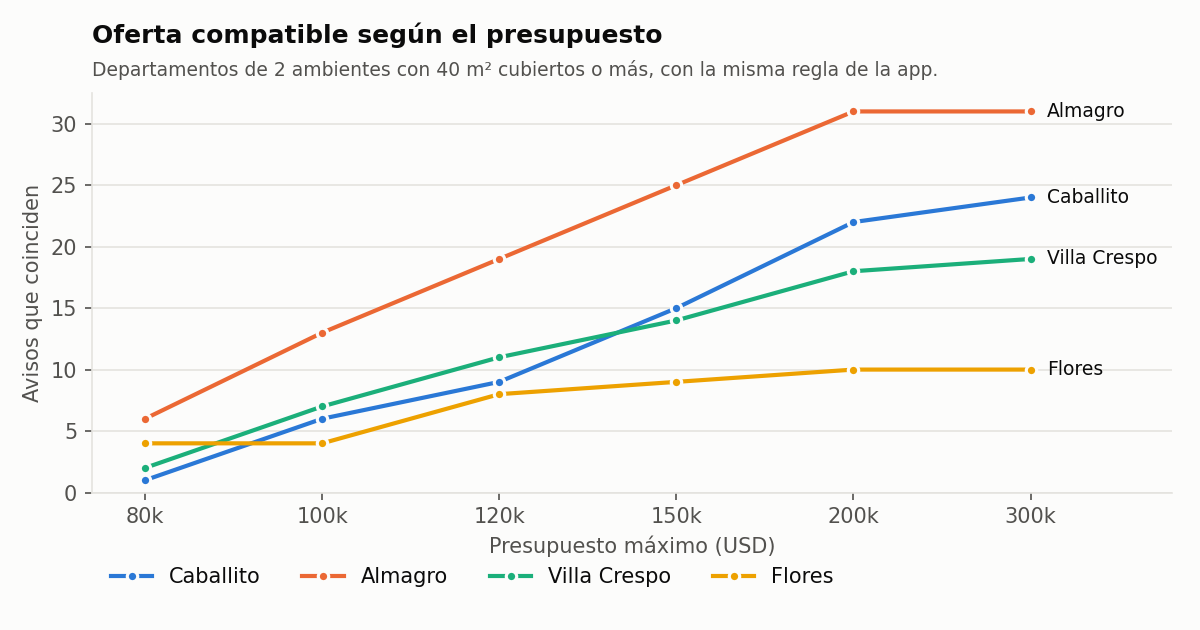
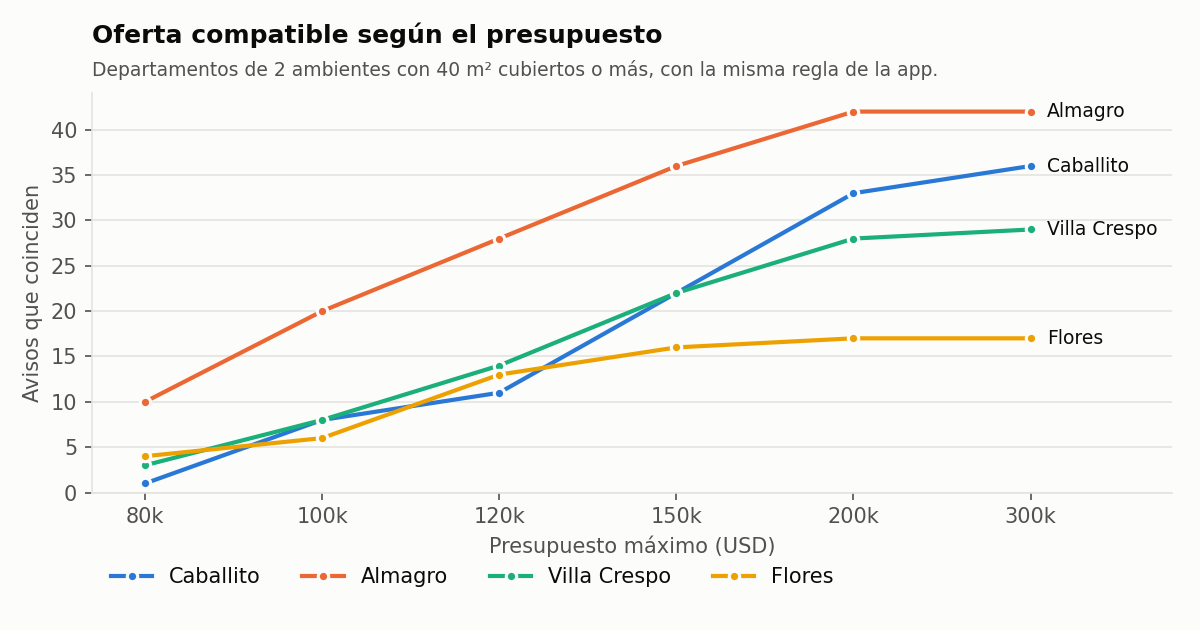
Modelo e informe de avisos con la base ampliada de Zonaprop
- Nuevo comando consolidar para unir capturas de un mismo catálogo.
- El modelo agrupa los posibles duplicados entre fuentes en la partición
  y en la validación cruzada, para evitar fugas entre entrenamiento y prueba.
- Resultados con 3.806 avisos: los delitos registrados siguen sin aportar;
  la ubicación respecto de servicios sí mejora la predicción.
- Informe exploratorio y figuras regenerados con la base ampliada.

diff --git a/precio_entorno/consolidar.py b/precio_entorno/consolidar.py
@@ -1,0 +1,84 @@
+"""Une varias capturas de un mismo catálogo en una sola carpeta para el análisis.
+
+Cada carpeta de entrada tiene un `avisos.json` y, si existe, un `registro.json`. La
+salida tiene los avisos sin IDs repetidos (se conserva la primera aparición), un
+registro con los sitios de cada captura y los posibles duplicados entre fuentes:
+la misma propiedad publicada por una inmobiliaria y por un portal.
+"""
+
+import argparse
+import json
+from pathlib import Path
+
+from precio_entorno.inmobiliarias import possible_duplicates
+
+
+def site_entries(log):
+    """Sitios de un registro. Las capturas de Apify se resumen por corridas."""
+    if 'sitios' in log:
+        return log['sitios']
+    if 'corridas' in log:
+        omitted = {}
+        for run in log['corridas']:
+            for reason, count in (run.get('omitidos') or {}).items():
+                omitted[reason] = omitted.get(reason, 0) + count
+        return {'zonaprop': {'estado': 'completo', 'avisos': sum(r.get('avisos', 0) for r in log['corridas']),
+                             'omitidos': omitted, 'pedidos': len(log['corridas'])}}
+    return {}
+
+
+def merge_sites(target, entries):
+    for site, entry in entries.items():
+        if site not in target:
+            target[site] = dict(entry, omitidos=dict(entry.get('omitidos') or {}))
+            continue
+        merged = target[site]
+        merged['avisos'] = merged.get('avisos', 0) + entry.get('avisos', 0)
+        merged['pedidos'] = (merged.get('pedidos') or 0) + (entry.get('pedidos') or 0)
+        for reason, count in (entry.get('omitidos') or {}).items():
+            merged['omitidos'][reason] = merged['omitidos'].get(reason, 0) + count
+        if 'segundos' in merged or 'segundos' in entry:
+            merged['segundos'] = (merged.get('segundos') or 0) + (entry.get('segundos') or 0)
+
+
+def consolidate(folders, out):
+    listings, seen, sites, captures = [], set(), {}, []
+    for folder in map(Path, folders):
+        for item in json.loads((folder / 'avisos.json').read_text(encoding='utf-8')):
+            if item['listing_id'] not in seen:
+                seen.add(item['listing_id'])
+                listings.append(item)
+        log_path = folder / 'registro.json'
+        log = json.loads(log_path.read_text(encoding='utf-8')) if log_path.exists() else {}
+        merge_sites(sites, site_entries(log))
+        captures.append({'carpeta': folder.name, 'catalogo': log.get('catalogo'), 'captura': log.get('captura')})
+    catalogs = {c['catalogo'] for c in captures if c['catalogo']}
+    if len(catalogs) > 1:
+        raise ValueError(f'Las capturas son de catálogos distintos: {sorted(catalogs)}.')
+    out = Path(out)
+    out.mkdir(parents=True, exist_ok=False)
+    log = {'catalogo': catalogs.pop() if catalogs else None, 'capturas': captures, 'sitios': sites,
+           'avisos': len(listings),
+           'posibles_duplicados_entre_inmobiliarias': possible_duplicates(
+               [dict(x, agency=x.get('agency') or x['listing_id'].split(':')[0]) for x in listings])}
+    (out / 'avisos.json').write_text(json.dumps(listings, ensure_ascii=False, indent=2) + '\n', encoding='utf-8')
+    (out / 'registro.json').write_text(json.dumps(log, ensure_ascii=False, indent=2) + '\n', encoding='utf-8')
+    return listings, log
+
+
+def main():
+    parser = argparse.ArgumentParser(description=__doc__.splitlines()[0])
+    parser.add_argument('capturas', type=Path, nargs='+', help='Carpetas con avisos.json')
+    parser.add_argument('--salida', type=Path, required=True)
+    args = parser.parse_args()
+    try:
+        listings, log = consolidate(args.capturas, args.salida)
+    except (OSError, ValueError, KeyError) as error:
+        parser.exit(1, f'Error: {error}\n')
+    print(json.dumps({'avisos': len(listings), 'sitios': {k: v.get('avisos') for k, v in log['sitios'].items()},
+                      'posibles_duplicados': len(log['posibles_duplicados_entre_inmobiliarias'])},
+                     ensure_ascii=False, indent=2))
+
+
+if __name__ == '__main__':
+    main()

diff --git a/tests/test_consolidar.py b/tests/test_consolidar.py
@@ -1,0 +1,67 @@
+"""Pruebas de la consolidación de capturas y de los grupos de posibles duplicados."""
+
+import json
+import tempfile
+import unittest
+from pathlib import Path
+
+import pandas as pd
+
+from precio_entorno.consolidar import consolidate
+from precio_entorno.modelo import duplicate_groups
+
+
+def listing(lid, price=120000, area=50, barrio='Caballito'):
+    return {'listing_id': lid, 'source': 'inmobiliarias-autorizadas', 'agency': lid.split(':')[0],
+            'url': f'https://example.invalid/{lid}', 'captured_at': '2026-11-08T12:00:00+00:00', 'price': price,
+            'currency': 'USD', 'covered_area_m2': area, 'total_area_m2': None, 'rooms': 2,
+            'neighborhood': barrio, 'latitude': None, 'longitude': None}
+
+
+def capture(root, name, items, log):
+    folder = root / name
+    folder.mkdir()
+    (folder / 'avisos.json').write_text(json.dumps(items), encoding='utf-8')
+    (folder / 'registro.json').write_text(json.dumps(log), encoding='utf-8')
+    return folder
+
+
+class ConsolidarTests(unittest.TestCase):
+    def test_merges_captures_logs_and_cross_source_duplicates(self):
+        with tempfile.TemporaryDirectory() as temp:
+            root = Path(temp)
+            a = capture(root, 'inmo', [listing('remax:1'), listing('remax:2', price=99000)],
+                        {'catalogo': 'inmobiliarias-autorizadas',
+                         'sitios': {'remax': {'avisos': 2, 'omitidos': {'x': 1}, 'pedidos': 3, 'segundos': 6}}})
+            b = capture(root, 'zp', [listing('zonaprop:9'), listing('remax:1')],
+                        {'catalogo': 'inmobiliarias-autorizadas',
+                         'corridas': [{'avisos': 2, 'omitidos': {'fuera_de_caba': 4}}]})
+            listings, log = consolidate([a, b], root / 'salida')
+            saved = json.loads((root / 'salida' / 'registro.json').read_text(encoding='utf-8'))
+        self.assertEqual([x['listing_id'] for x in listings], ['remax:1', 'remax:2', 'zonaprop:9'])
+        self.assertEqual(saved['sitios']['zonaprop'], {'estado': 'completo', 'avisos': 2,
+                                                        'omitidos': {'fuera_de_caba': 4}, 'pedidos': 1})
+        self.assertEqual(saved['sitios']['remax']['segundos'], 6)
+        self.assertEqual(log['posibles_duplicados_entre_inmobiliarias'], [['remax:1', 'zonaprop:9']])
+
+    def test_rejects_mixed_catalogs(self):
+        with tempfile.TemporaryDirectory() as temp:
+            root = Path(temp)
+            a = capture(root, 'v', [listing('remax:1')], {'catalogo': 'inmobiliarias-autorizadas'})
+            b = capture(root, 'a', [listing('mob:1')], {'catalogo': 'inmobiliarias-alquiler'})
+            with self.assertRaisesRegex(ValueError, 'catálogos distintos'):
+                consolidate([a, b], root / 'salida')
+
+    def test_duplicate_groups_only_join_different_sources(self):
+        df = pd.DataFrame({'id': ['remax:1', 'zonaprop:9', 'remax:2', 'remax:3'],
+                           'agency': ['remax', 'zonaprop', 'remax', 'remax'],
+                           'neighborhood': ['Caballito'] * 4, 'rooms': [2] * 4,
+                           'covered_area': [50.2, 49.8, 70, 70], 'price': [120400, 119800, 150000, 150000]})
+        groups = list(duplicate_groups(df))
+        self.assertEqual(groups[0], groups[1])
+        self.assertTrue(groups[0].startswith('dup:'))
+        self.assertEqual(groups[2:], ['remax:2', 'remax:3'])
+
+
+if __name__ == '__main__':
+    unittest.main()

diff --git a/precio_entorno/modelo.py b/precio_entorno/modelo.py
@@ -57,13 +57,30 @@ def load_listings(paths, source, approximate_pins=False):
     df.loc[~df['pin_para_radio'], ['latitude', 'longitude']] = np.nan
     # En un catálogo consolidado, el prefijo del ID identifica a la inmobiliaria.
     df['agency'] = df['id'].map(lambda i: i.split(':', 1)[0] if ':' in i else source.strip().casefold())
+    df['grupo'] = duplicate_groups(df)
     captures = df.groupby('id').size()
     summary = {'archivos': reports, 'observaciones_validas': total,
                'capturas_identicas_descartadas': total - len(df), 'observaciones': len(df),
                'avisos_distintos': int(len(captures)), 'avisos_con_capturas_repetidas': int((captures > 1).sum()),
                'pines_con_precision_declarada': int(accurate.sum()),
-               'pines_usados_para_radio': int(df['pin_para_radio'].sum())}
+               'pines_usados_para_radio': int(df['pin_para_radio'].sum()),
+               'avisos_en_grupos_de_posibles_duplicados': int((df['grupo'] != df['id']).sum()),
+               'grupos_de_posibles_duplicados': int(df.loc[df['grupo'] != df['id'], 'grupo'].nunique())}
     return df, summary
+
+
+def duplicate_groups(df):
+    """Grupo de partición de cada aviso.
+
+    Una misma propiedad puede estar publicada por una inmobiliaria y por un portal. Los
+    avisos de fuentes distintas con mismo barrio, ambientes, m² cubiertos redondeados y
+    precio redondeado a miles comparten grupo, para que la partición no ponga una copia
+    en entrenamiento y otra en prueba. El resto usa su propio ID.
+    """
+    key = (df['neighborhood'].astype(str) + '|' + df['rooms'].astype(str) + '|'
+           + df['covered_area'].round().astype(int).astype(str) + '|' + df['price'].round(-3).astype(int).astype(str))
+    sources = df.groupby(key)['agency'].transform('nunique')
+    return np.where(sources > 1, 'dup:' + key, df['id'])
 
 
 OSM_GROUPS = {
@@ -178,7 +195,7 @@ def environment(listings, crimes, radius_m=RADIUS_M):
 def group_split(df, seed, test_size=0.2):
     from sklearn.model_selection import GroupShuffleSplit
     splitter = GroupShuffleSplit(n_splits=1, test_size=test_size, random_state=seed)
-    return next(splitter.split(df, groups=df['id']))
+    return next(splitter.split(df, groups=df['grupo']))
 
 
 def comparables(train, test):
@@ -259,10 +276,10 @@ def evaluate(df, seed=42, folds=5, control_agency=False):
     mae, levels = score(train, test)
 
     from sklearn.model_selection import GroupKFold
-    n_folds = min(folds, df['id'].nunique())
+    n_folds = min(folds, df['grupo'].nunique())
     fake = placebo(df, seed)
     cv = []
-    for a, b in GroupKFold(n_splits=n_folds).split(df, groups=df['id']):
+    for a, b in GroupKFold(n_splits=n_folds).split(df, groups=df['grupo']):
         fold = score(df.iloc[a], df.iloc[b])[0]
         y = fake.iloc[b]['precio_m2'].to_numpy()
         fold['placebo_entorno'] = float(np.mean(np.abs(y - boosting(fake.iloc[a], fake.iloc[b], env, seed))))

diff --git a/docs/modelo.md b/docs/modelo.md
@@ -2,6 +2,52 @@
 
 Este documento responde la pregunta analítica del capstone: ¿la información sobre delitos registrados mejora la predicción del **precio publicado por m² cubierto**, frente a un modelo que solo usa características inmobiliarias y ubicación?
 
+## Resultados con la base ampliada · 8 de noviembre de 2026
+
+**Datos:**
+- **Avisos:** 3.806 departamentos en venta válidos, sumando a las inmobiliarias y Clarín los 2.272 avisos de Zonaprop (48 barrios, con autorización). Antes eran 1.516.
+- **Pines:** 3.381 avisos tienen pin para el cruce por radio, con coordenadas tratadas como aproximadas. Antes eran 1.122.
+- **Delitos:** los de 2025, la ventana de 12 meses anterior a las capturas.
+- **Partición:** 758 avisos de prueba y validación cruzada de 5 pliegues.
+- **Datos guardados:** en `data/processed/ampliado/`.
+
+**Cambio de método: posibles duplicados.** Una misma propiedad puede estar publicada por una inmobiliaria y en Zonaprop. Los avisos de fuentes distintas con mismo barrio, ambientes, m² cubiertos redondeados y precio redondeado a miles ahora comparten grupo en la partición y en la validación cruzada (columna `grupo`). Así una copia no queda en entrenamiento y la otra en prueba. Son 444 avisos en 220 grupos.
+
+Cada celda muestra el MAE en USD/m² de la partición de prueba y el de la validación cruzada, separados por una barra. La última columna dice si el entorno mejora al modelo inmobiliario en los 5 pliegues y si le gana al placebo en los 5.
+
+| Especificación | Inmobiliario | Con delitos | Placebo (CV) | ¿Mejora en todos? / ¿Gana al placebo? |
+| --- | --- | --- | --- | --- |
+| Cruce por barrio | 560 / 525 | 560 / 525 | 525 | No / No |
+| Cruce por barrio + control por inmobiliaria | 561 / 521 | 560 / 524 | 523 | No / No |
+| Pines aproximados | 522 / 482 | 522 / 476 | 493 | Sí / Sí |
+| Pines aproximados + control | 519 / 481 | 521 / 476 | 492 | Sí / Sí |
+| + transporte y gastronomía (OSM) | 524 / 475 | 519 / 472 | 483 | No / Sí |
+| + transporte y gastronomía + control | 521 / 475 | 514 / 471 | 483 | No / Sí |
+| + puntos de interés completos | 521 / 472 | 520 / 468 | 477 | No / No |
+| **+ puntos de interés completos + control** | **514 / 469** | **514 / 467** | 476 | No / No |
+
+**Lectura:**
+1. **Con el cruce por barrio, los delitos no aportan nada.** El MAE de validación cruzada es el mismo con delitos y con placebo (525). Con la base chica había una mejora aparente que ya se explicaba por el placebo; con la base ampliada, ni eso.
+2. **Con pines aproximados y sin puntos de interés, los delitos a 500 m mejoran unos 5 a 6 USD/m²** en la validación cruzada, en los 5 pliegues y por encima del placebo. Es alrededor del 1 % del error. En la partición de prueba no mejoran.
+3. **Al sumar los puntos de interés, el aporte desaparece.** Con la especificación final, los delitos bajan el MAE de 469 a 467 en la validación cruzada. La mejora cambia de signo entre pliegues, no le gana al placebo y en la partición de prueba es nula (514 en los dos modelos). Igual que con la base chica, el aporte inicial de los delitos parece medir actividad urbana y cercanía a servicios.
+4. **La ubicación sí mejora la predicción.** Con control por inmobiliaria, el modelo inmobiliario baja de 481 a 469 USD/m² en la validación cruzada al sumar la distancia a transporte, parques y hospitales, y la cantidad de escuelas y gastronomía cerca. Es alrededor del 19 % de la mediana de 2.411 USD/m².
+5. **Comparación con la base chica:**
+   - **Validación cruzada:** el error del mejor modelo baja de 502 a 469.
+   - **Partición de prueba:** sube de 488 a 514. Ahora tiene 758 avisos en vez de 304 y una composición distinta: Zonaprop aporta hasta 50 avisos por barrio, también en los barrios del sur, donde el precio por m² es más variable.
+   - **Cuál pesa más:** la validación cruzada promedia 5 particiones, así que es la referencia más estable.
+
+**Conclusión:** la base ampliada confirma la del 7 de noviembre. No hay evidencia de que los delitos registrados mejoren la predicción del precio publicado por m². La ubicación respecto de transporte, parques y servicios, en cambio, sí la mejora.
+
+**Para reproducirlo:**
+
+```powershell
+python -m precio_entorno.consolidar data/raw/inmobiliarias-20261107 data/raw/clarin-20261108 data/raw/zonaprop-venta-piloto-20261108 data/raw/zonaprop-venta-20261108 data/raw/zonaprop-venta-20261108-reintento --salida data/raw/venta-consolidada-20261108
+```
+
+```powershell
+python -m precio_entorno.modelo data/raw/venta-consolidada-20261108/avisos.json --catalogo inmobiliarias-autorizadas --pines-aproximados --control-inmobiliaria --osm data/raw/osm-20261107 data/processed/poi-badata --salida data/processed/ampliado/modelo-pines-aproximados-poi-control
+```
+
 ## Resultados · 7 de noviembre de 2026
 
 **Datos:**

diff --git a/docs/eda-avisos.md b/docs/eda-avisos.md
@@ -2,6 +2,38 @@
 
 Fuente: catálogo consolidado `inmobiliarias-autorizadas` (RE/MAX, Century 21 y Migliorisi), capturado el 7 de noviembre de 2026 con autorización de cada inmobiliaria. Unidad: aviso vigente de un departamento en venta. Son **precios de publicación**, no tasaciones ni precios de cierre.
 
+## Base ampliada · 8 de noviembre de 2026
+
+Las tablas de `data/processed/avisos/` y los gráficos de `docs/img/eda-avisos/` se regeneraron con la base ampliada: inmobiliarias, Clarín y Zonaprop en los 48 barrios. Las secciones siguientes describen la captura del 7 de noviembre.
+
+```powershell
+python -m precio_entorno.eda_avisos data/raw/venta-consolidada-20261108
+```
+
+| Indicador | 7 de noviembre | 8 de noviembre (ampliada) |
+| --- | ---: | ---: |
+| Avisos capturados | 1.628 | 4.007 |
+| Avisos válidos | 1.516 | 3.806 |
+| Barrios con al menos 15 avisos | 21 | 48 |
+| Con coordenadas | 74 % | 89 % |
+| Precio mediano | USD 130.000 | USD 119.900 |
+| USD/m² mediano (P25–P75) | 2.550 (2.015–3.267) | 2.411 (1.855–3.071) |
+| Posibles duplicados entre fuentes | 6 | 221 |
+
+| Fuente | Capturados | Válidos | % válidos | Con coordenadas | Barrios |
+| --- | ---: | ---: | ---: | ---: | ---: |
+| Zonaprop | 2.359 | 2.272 | 96,3 % | 2.259 | 48 |
+| RE/MAX | 600 | 583 | 97,2 % | 582 | 46 |
+| Century 21 | 600 | 545 | 90,8 % | 540 | 42 |
+| Migliorisi | 428 | 388 | 90,7 % | 0 | 19 |
+| Clarín | 20 | 18 | 90,0 % | 0 | 3 |
+
+**Lectura:**
+- **La mediana baja porque cambia la muestra, no porque bajen los precios.** Zonaprop aporta hasta 50 avisos por barrio, ordenados por más recientes. Eso suma peso a barrios baratos del sur que antes casi no estaban: Villa Lugano (1.007 USD/m²), Nueva Pompeya (1.224) y Villa Soldati (1.293). La muestra está balanceada por barrio, no es proporcional al mercado.
+- **Los barrios más caros** siguen siendo Puerto Madero (5.608 USD/m²), Colegiales (3.621), Núñez (3.476) y Palermo (3.402).
+- **Los posibles duplicados** son sobre todo avisos de una inmobiliaria que también aparecen en Zonaprop. Se informan y no se eliminan. El modelo los pone en el mismo grupo de partición.
+- **Atípicos:** 153 avisos superan el límite alto de 4.896 USD/m² según el rango intercuartílico, 108 de ellos en Puerto Madero (44), Palermo (39) y Belgrano (25).
+
 ## Cómo reproducirlo
 
 ```powershell

diff --git a/README.md b/README.md
@@ -221,7 +221,7 @@ python -m precio_entorno.eda_delitos
 
 ## Evaluación del modelo
 
-El [pipeline del modelo](docs/modelo.md) cruza los avisos con los delitos de los 12 meses previos a cada captura, por barrio y en un radio de 500 m cuando el pin lo permite. Compara el MAE en USD/m² de la mediana de comparables, un modelo inmobiliario y el mismo modelo con entorno, con la misma partición por aviso, y lo contrasta con un placebo. Con los 1.516 avisos de las inmobiliarias, el cruce por barrio no muestra aporte de los delitos registrados. Con pines aproximados, el pequeño aporte inicial desaparece al sumar transporte, parques, hospitales, escuelas y gastronomía cercanos. El detalle está en [docs/modelo.md](docs/modelo.md).
+El [pipeline del modelo](docs/modelo.md) cruza los avisos con los delitos de los 12 meses previos a cada captura, por barrio y en un radio de 500 m cuando el pin lo permite. Compara el MAE en USD/m² de la mediana de comparables, un modelo inmobiliario y el mismo modelo con entorno, con la misma partición por aviso, y lo contrasta con un placebo. Con la base ampliada del 8 de noviembre de 2026 (3.806 avisos: inmobiliarias, Clarín y Zonaprop), el cruce por barrio no muestra ningún aporte de los delitos registrados. Con pines aproximados, el pequeño aporte inicial desaparece al sumar transporte, parques, hospitales, escuelas y gastronomía cercanos. Los posibles duplicados entre fuentes comparten grupo en la partición. El mejor modelo tiene un MAE de 469 USD/m² en la validación cruzada. El detalle está en [docs/modelo.md](docs/modelo.md).
 
 ```powershell
 python -m precio_entorno.modelo data/raw/<carpeta>/avisos.json --catalogo zonaprop
